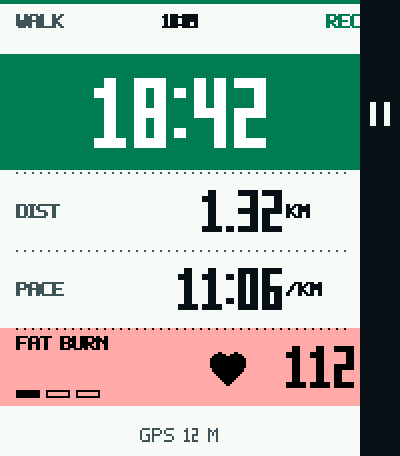
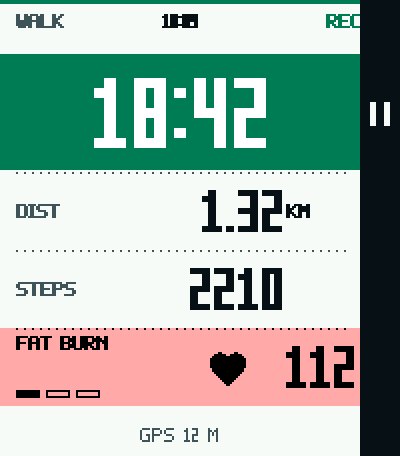
Show steps on walking screen

Changed region(s): [[0.45, 0.5833, 0.81, 0.7061], [0.03, 0.614, 0.12, 0.6754], [0.15, 0.614, 0.21, 0.6754]]

diff --git a/tools/render_screenshots.js b/tools/render_screenshots.js
@@ -115,8 +115,8 @@ var screens = [
     activity: 'WALKING',
     elapsed: '18:42',
     distance: '1.32 km',
-    metricLabel: 'PACE',
-    metricValue: '11:06/km',
+    metricLabel: 'STEPS',
+    metricValue: '2210',
     hrBpm: 112,
     hrZone: 1,
     gps: 'GPS 12 M'

diff --git a/src/c/activity_controller.c b/src/c/activity_controller.c
@@ -16,6 +16,47 @@ static bool s_hr_sample_period_requested;
 
 static void update_hr(bool fresh_event);
 
+static int32_t step_count_between(time_t start, time_t end) {
+  if (start <= 0 || end <= start) {
+    return 0;
+  }
+
+#if defined(PBL_HEALTH)
+  HealthServiceAccessibilityMask steps_access =
+      health_service_metric_accessible(
+          HealthMetricStepCount, start, end);
+  if (!(steps_access & HealthServiceAccessibilityMaskAvailable)) {
+    return -1;
+  }
+
+  HealthValue steps =
+      health_service_sum(HealthMetricStepCount, start, end);
+  return steps > 0 ? (int32_t)steps : 0;
+#else
+  return -1;
+#endif
+}
+
+static void update_steps(void) {
+  if (g_pacelet.activity_state != ActivityStateActive &&
+      g_pacelet.activity_state != ActivityStatePaused) {
+    g_pacelet.current_steps_available = false;
+    return;
+  }
+
+  time_t end = g_pacelet.activity_state == ActivityStatePaused ?
+      g_pacelet.paused_at : time(NULL);
+  int32_t steps = step_count_between(g_pacelet.started_at, end);
+  if (steps < 0) {
+    g_pacelet.current_steps_available = false;
+    return;
+  }
+
+  steps -= g_pacelet.total_paused_steps;
+  g_pacelet.current_steps = steps > 0 ? steps : 0;
+  g_pacelet.current_steps_available = true;
+}
+
 static void set_activity_hr_sampling(bool enabled) {
 #if defined(PBL_HEALTH)
   if (enabled) {
@@ -156,6 +197,7 @@ static void start_activity_recording(void) {
   g_pacelet.activity_state = ActivityStateActive;
   set_activity_hr_sampling(true);
   update_hr(false);
+  update_steps();
   watch_services_send_command(MESSAGE_KEY_START_ACTIVITY);
   watch_ui_mark_dirty();
 }
@@ -205,6 +247,7 @@ static void pause_activity(void) {
   g_pacelet.finish_confirm_visible = false;
   g_pacelet.paused_at = time(NULL);
   g_pacelet.activity_state = ActivityStatePaused;
+  update_steps();
   watch_services_send_command(MESSAGE_KEY_PAUSE_ACTIVITY);
   vibes_short_pulse();
   watch_ui_mark_dirty();
@@ -216,12 +259,19 @@ static void resume_activity(void) {
     return;
   }
 
+  time_t now = time(NULL);
+  int32_t paused_steps = step_count_between(
+      g_pacelet.paused_at, now);
+  if (paused_steps > 0) {
+    g_pacelet.total_paused_steps += paused_steps;
+  }
   g_pacelet.total_paused_s +=
-      (int32_t)(time(NULL) - g_pacelet.paused_at);
+      (int32_t)(now - g_pacelet.paused_at);
   g_pacelet.paused_at = 0;
   g_pacelet.activity_state = ActivityStateActive;
   set_activity_hr_sampling(true);
   update_hr(false);
+  update_steps();
   watch_services_send_command(MESSAGE_KEY_RESUME_ACTIVITY);
   vibes_short_pulse();
   watch_ui_mark_dirty();
@@ -386,6 +436,7 @@ void activity_controller_handle_down(void) {
 void activity_controller_handle_tick(void) {
   g_pacelet.anim_tick++;
   update_hr(false);
+  update_steps();
   expire_stale_hr();
   maybe_send_hr_clear();
   maybe_send_periodic_hr();
@@ -397,6 +448,9 @@ void activity_controller_handle_health_event(HealthEventType event) {
     update_hr(true);
     maybe_send_hr_clear();
     send_hr_sample();
+  } else if (event == HealthEventMovementUpdate ||
+             event == HealthEventSignificantUpdate) {
+    update_steps();
   }
   watch_ui_mark_dirty();
 }

diff --git a/src/c/watch_ui.c b/src/c/watch_ui.c
@@ -831,6 +831,7 @@ static void draw_activity_screen(GContext *ctx, GRect bounds) {
   char distance_unit[8];
   char movement_value[16];
   char movement_unit[8];
+  const char *movement_label;
   char gps_text[32];
   bool paused = g_pacelet.activity_state == ActivityStatePaused;
 
@@ -845,12 +846,23 @@ static void draw_activity_screen(GContext *ctx, GRect bounds) {
       g_pacelet.distance_m,
       distance_value, sizeof(distance_value),
       distance_unit, sizeof(distance_unit));
-  if (pacelet_activity_uses_speed()) {
+  if (g_pacelet.activity_type == ActivityTypeWalking) {
+    movement_label = "STEPS";
+    if (g_pacelet.current_steps_available) {
+      snprintf(movement_value, sizeof(movement_value), "%ld",
+               (long)g_pacelet.current_steps);
+    } else {
+      snprintf(movement_value, sizeof(movement_value), "%s", "--");
+    }
+    movement_unit[0] = '\0';
+  } else if (pacelet_activity_uses_speed()) {
+    movement_label = "SPEED";
     format_speed_parts(
         g_pacelet.current_speed_centi_mps,
         movement_value, sizeof(movement_value),
         movement_unit, sizeof(movement_unit));
   } else {
+    movement_label = "PACE";
     format_pace_parts(
         g_pacelet.current_pace_s_per_km,
         movement_value, sizeof(movement_value),
@@ -862,8 +874,7 @@ static void draw_activity_screen(GContext *ctx, GRect bounds) {
       "DIST", distance_value, distance_unit);
   draw_metric_row(
       ctx, bounds, movement_y, row_h,
-      pacelet_activity_uses_speed() ? "SPEED" : "PACE",
-      movement_value, movement_unit);
+      movement_label, movement_value, movement_unit);
   draw_hr_row(
       ctx, bounds, hr_y, row_h, g_pacelet.last_hr_bpm);
 

diff --git a/src/c/pacelet_model.c b/src/c/pacelet_model.c
@@ -34,6 +34,7 @@ void pacelet_model_reset_activity(bool preserve_hr) {
   g_pacelet.started_at = 0;
   g_pacelet.paused_at = 0;
   g_pacelet.total_paused_s = 0;
+  g_pacelet.total_paused_steps = 0;
   g_pacelet.finished_elapsed_s = 0;
   g_pacelet.last_hr_sent_elapsed_s = -1;
   if (!preserve_hr) {
@@ -44,6 +45,8 @@ void pacelet_model_reset_activity(bool preserve_hr) {
   g_pacelet.distance_m = 0;
   g_pacelet.current_pace_s_per_km = 0;
   g_pacelet.current_speed_centi_mps = 0;
+  g_pacelet.current_steps = 0;
+  g_pacelet.current_steps_available = false;
   g_pacelet.summary_distance_m = 0;
   g_pacelet.summary_moving_s = 0;
   g_pacelet.summary_points = 0;

diff --git a/tools/screenshot_emulator.py b/tools/screenshot_emulator.py
@@ -79,11 +79,11 @@ def output_dir(args):
 def output_path(args):
     if args.output:
         return Path(args.output).expanduser()
-    return output_dir(args) / '{}-{}.png'.format(EMULATOR, args.screen)
+    return output_dir(args) / '{}_{}.png'.format(EMULATOR, args.screen)
 
 
 def all_output_path(args, screen, index):
-    return output_dir(args) / '{}-{}-{:02d}-{}.png'.format(
+    return output_dir(args) / '{}_{}_{:02d}_{}.png'.format(
         EMULATOR,
         args.activity,
         index,

diff --git a/src/c/pacelet.h b/src/c/pacelet.h
@@ -49,11 +49,14 @@ typedef struct {
   time_t started_at;
   time_t paused_at;
   int32_t total_paused_s;
+  int32_t total_paused_steps;
   int32_t finished_elapsed_s;
 
   int32_t distance_m;
   int32_t current_pace_s_per_km;
   int32_t current_speed_centi_mps;
+  int32_t current_steps;
+  bool current_steps_available;
   int32_t gps_accuracy_m;
 
   int32_t last_hr_bpm;
